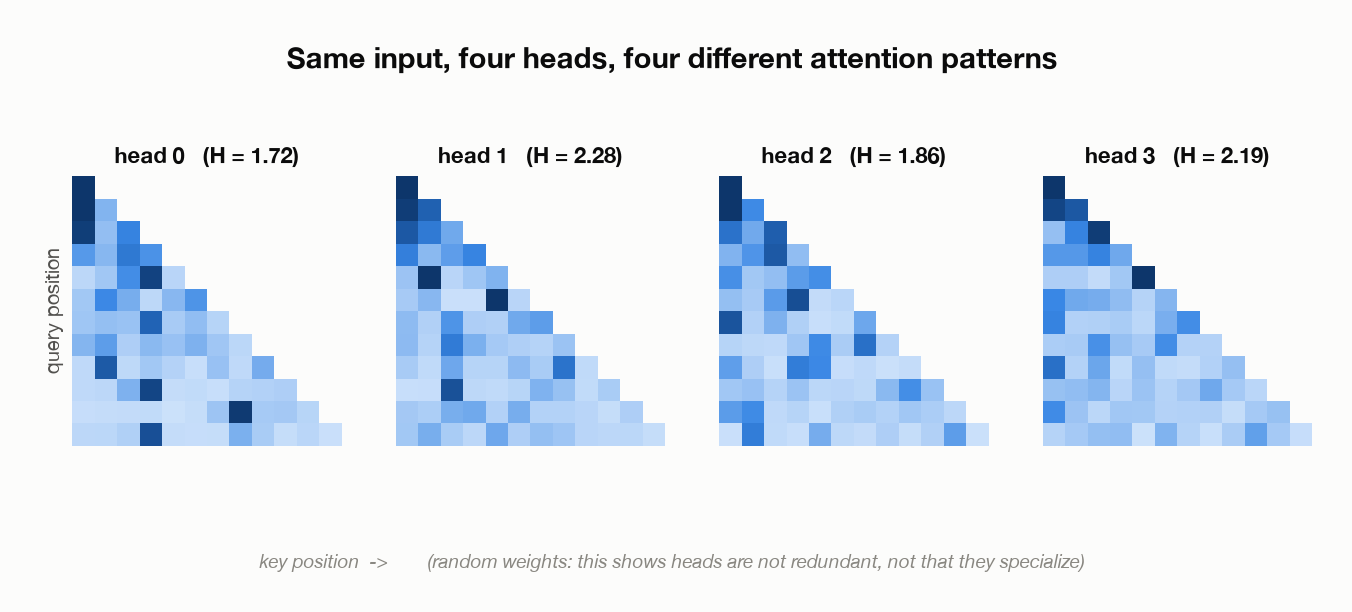
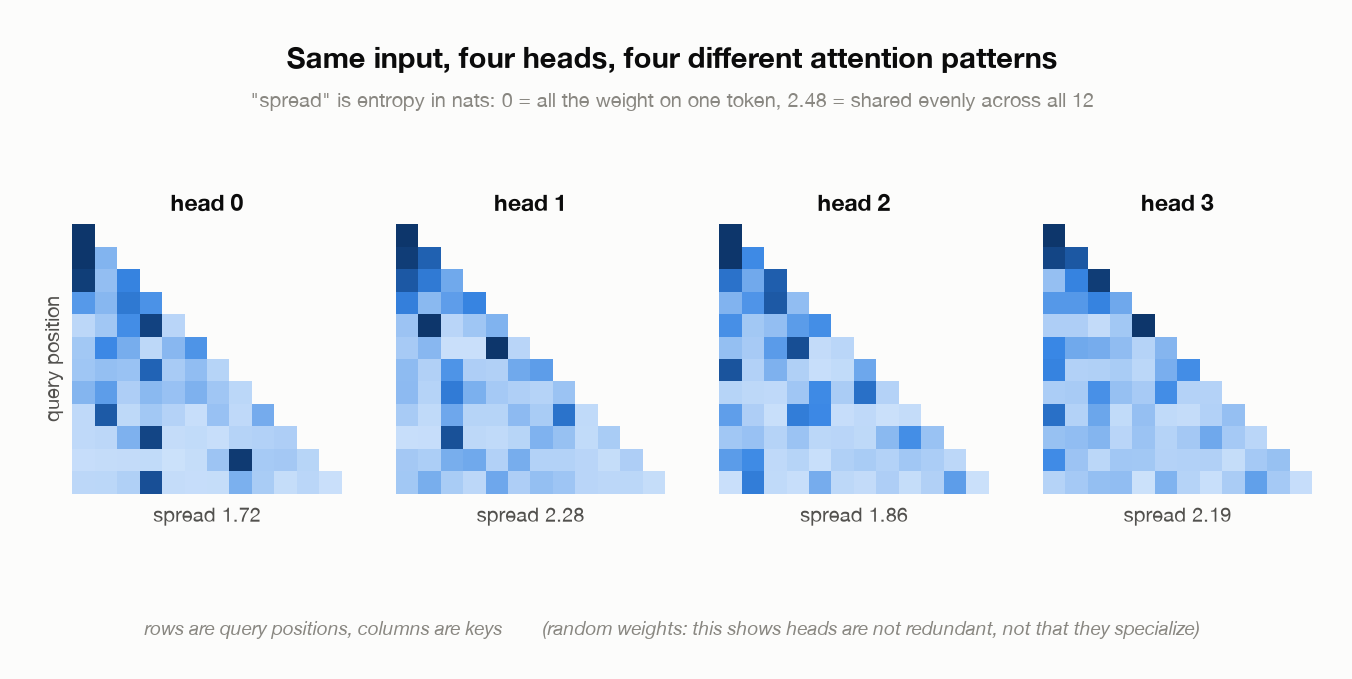
Post 1: explain the number under each head in the patterns figure
The figure labelled each panel "H = 1.72" with no definition, and entropy — the
thing H stood for — is not introduced until section 10.

The figure now says "spread" and states the scale it lives on. The caption reads
the numbers rather than leaving them: 0 would be all the weight on one token,
2.48 an even share across all 12, so head 0 at 1.72 is picking favourites while
head 1 at 2.28 is even-handed.

diff --git a/_posts/2026-08-06-llm-architectures-attention-and-rope.md b/_posts/2026-08-06-llm-architectures-attention-and-rope.md
@@ -215,10 +215,12 @@ $W_o$ at the end is not bookkeeping. Without it, 32 heads' findings would sit in
 
 So what does all that buy? Several attention patterns at once, instead of one averaged compromise:
 
-![Four heads, four attention patterns on the same input](/assets/picture/2026-08-01-llm-architectures-attention-and-rope/head-patterns-light.png){: .light width="1000" height="453" }
-![Four heads, four attention patterns on the same input](/assets/picture/2026-08-01-llm-architectures-attention-and-rope/head-patterns-dark.png){: .dark width="1000" height="453" }
+![Four heads, four attention patterns on the same input](/assets/picture/2026-08-01-llm-architectures-attention-and-rope/head-patterns-light.png){: .light width="1000" height="502" }
+![Four heads, four attention patterns on the same input](/assets/picture/2026-08-01-llm-architectures-attention-and-rope/head-patterns-dark.png){: .dark width="1000" height="502" }
 
-Each triangle is one head's weights: row $i$ is where query $i$ looks, and the staircase edge is causal masking ([§11](#causal-masking)). Four visibly different patterns from the same input.
+Each triangle is one head's weights: row $i$ is where query $i$ looks, darker meaning more weight. The staircase edge is causal masking ([§11](#causal-masking)) — a token can't look at anything to its right.
+
+The **spread** number under each is a one-figure summary of how concentrated that head's last row is. It's the *entropy* of those weights: **0 would mean the head put everything on a single token**, and **2.48 would mean it spread the weight evenly across all 12**. Head 0 sits at 1.72, so it's picking favourites; head 1 at 2.28 is much more even-handed. Same input, four different opinions.
 
 One caveat I want to be exact about: **these are random weights.** The heads differ because they were initialized differently, which shows they aren't redundant copies — it is *not* specialization. In trained models specialization is real and catalogued: "previous-token heads" that look one step back, "induction heads" that spot a repeated pattern and predict its continuation. You can't see that in a figure like this.
 
